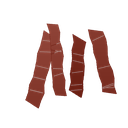
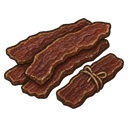
added new imagines and items

diff --git a/Homesteader/CHANGELOG.md b/Homesteader/CHANGELOG.md
@@ -74,6 +74,8 @@ All notable changes to Homesteader are documented here.
 
 #### Art
 - Hand-painted textures for all new content: 4 plants, 38 item sprites, 31 buildings (with directional variants for the curing rack, homestead hearth, hayloft, brewing bench, log bench, rocking chair and quilted bed), 4 apparel icons and 3 seamless terrain tiles.
+- Regenerated the drying rack (with directional variants), hayloft (with directional variants), preserves shelf, jerky, salted meat and smoked meat sprites in the newer painterly style; docs page images refreshed to match.
+- Regenerated the compact battery, battery bank, advanced battery, ultratech battery and portable generator sprites in the newer painterly style; docs page images refreshed to match.
 
 ## [1.0.0] — Initial release
 
